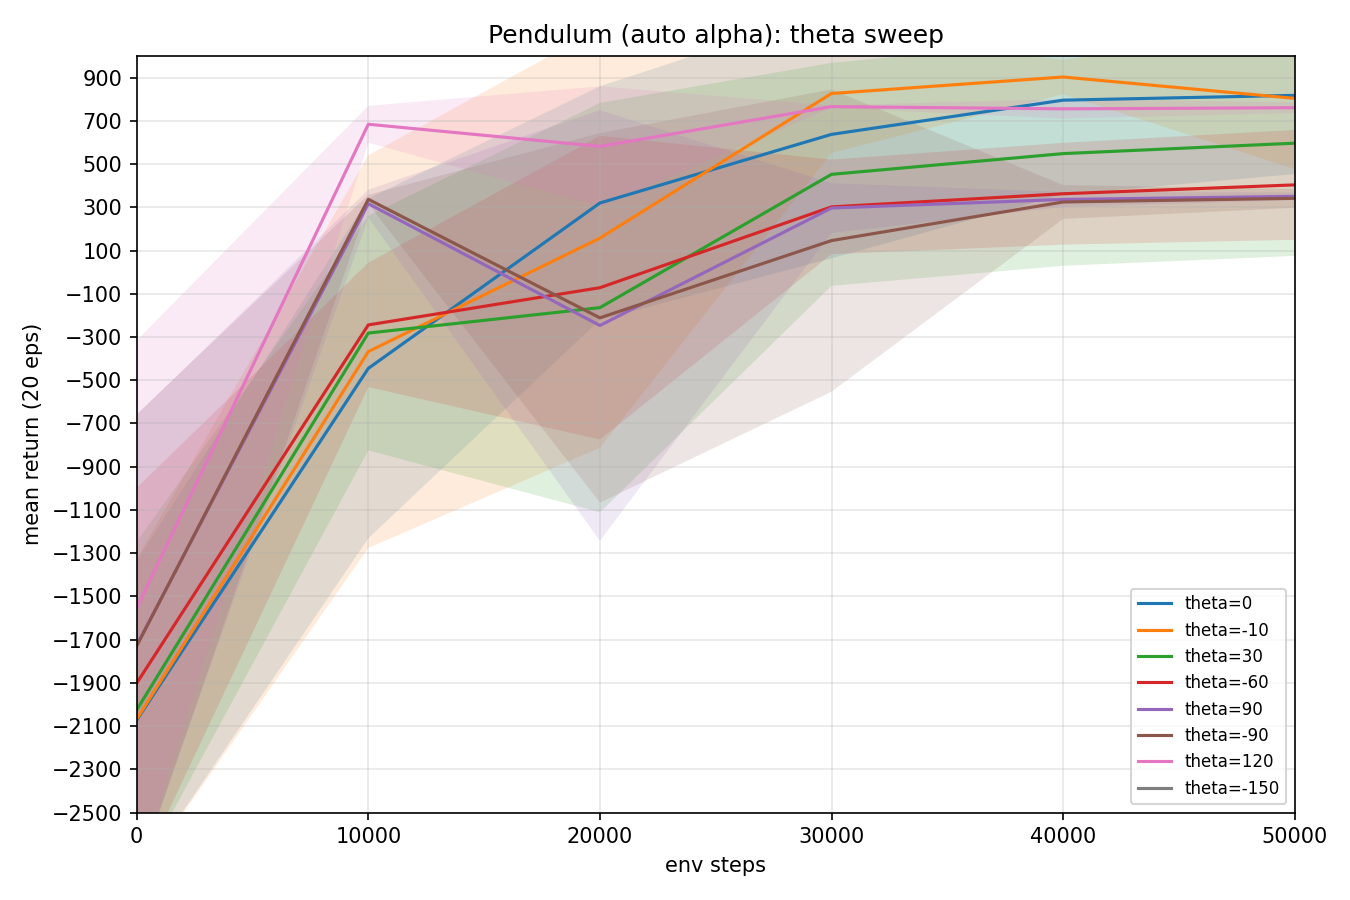
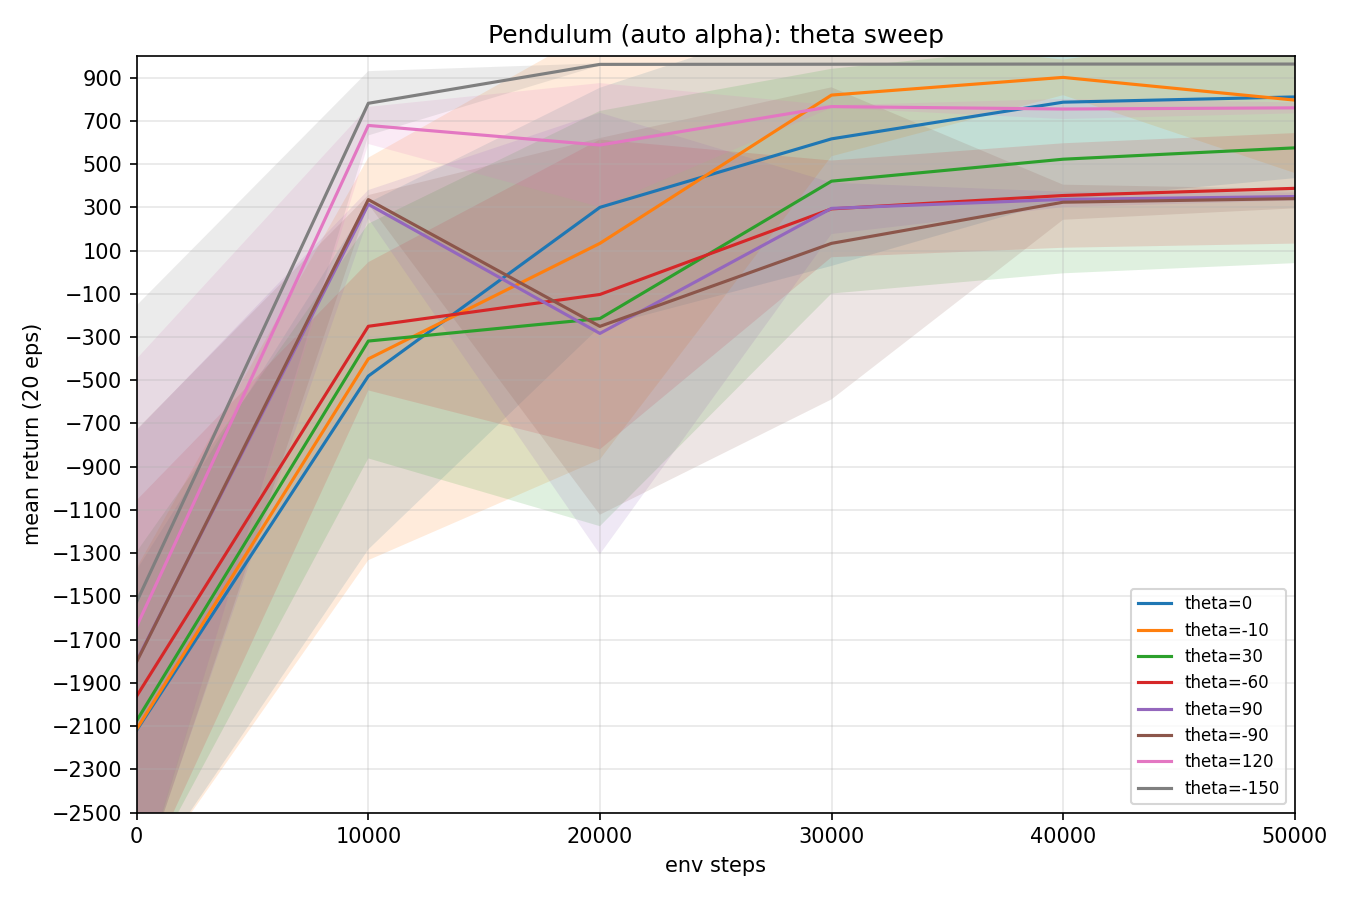
write up 2.0

diff --git a/Assignment 3/write_up.md b/Assignment 3/write_up.md
@@ -27,10 +27,9 @@ Thus, the cosine-based reward is smooth, bounded, and well-suited for learning s
 
 **Learning speed:**
 
-* Targets like (theta = -150, 10, 0) learn the fastest. They show rapid improvement and reach high returns early (≈30K steps).
+* Targets like (theta = -150, 10, 120, 0) learn the fastest. They show rapid improvement and reach high returns early (≈40K steps).
 * **Moderate angles** such as 30 and -60 learn more gradually, with steady but slower improvement.
 * **Harder targets** like 90 and -90 initially struggle (sharp drop around 20K steps), indicating exploration difficulty before recovering.
-* 120 shows relatively stable but slower learning compared to easier angles.
 
 **Final performance (quality of behavior):**
 
@@ -55,3 +54,60 @@ For most larger angles, instead of perfectly holding the target angle, the agent
 - settles at a nearby easier-to-maintain angle (e.g., ~140° for a 120° target)
 
 This happens because for difficult targets, maintaining the exact angle requires continuous precise torque, so the agent prefers stable or quasi-stable behaviors (oscillations or shifted equilibria) that still yield reasonably high reward.
+
+This is reflected in the following visualizations of the system for theta target = -10 and 90 degrees - https://drive.google.com/drive/folders/1ux6DAtJJqaZ-ZaceHcT3RbjIQQfjiK6e?usp=sharing
+
+5. 
+(a) — Manual vs. automated α
+
+We swept manual α values for each θ_target ∈ {−60, 90, 120, −150}. The candidate values were chosen by inspecting the final 5–6 values of the auto-tuned α from the corresponding Q2.1.2 runs (the values α settles to in the last 10–20K env steps), and then refining around them. The final αmnl values for every angle are:
+
+θ_target	αmnl
+−60     	0.01
+90	        0.015
+120	        0.005
+−150	    0.005
+
+Difficulty of tuning: Tuning α manually was moderately difficult: the optimal αmnl differed across target angles so a single value did not transfer. Looking at the auto-α trajectories was a useful prior.
+
+Manual vs. auto comparison: Across θ ∈ {90, 120, −150}, the manual αmnl (dashed lines) achieves comparable or higher final return than auto (solid lines) and noticeably tighter confidence bands — i.e., better final convergence and lower variance across seeds. The trade-off is that manual tuning required a per-θ sweep to find these values, whereas auto-α produced reasonable performance out of the box for all four targets.
+
+The exception is θ = −60: here auto-α slightly outperforms the best αmnl from our sweep. This is consistent with auto-α not stabilising during training for this target — the entropy requirement appears to shift over the course of learning, so any fixed α from the sweep is suboptimal for at least part of training, while the auto adjustment can adapt. This itself illustrates a limitation of manual tuning: when the optimal entropy temperature is non-stationary, a single scalar cannot match the adaptive scheme.
+
+(b)
+
+For scaling = 0.1, both methods reach the same asymptotic return (~+30, equivalent to the +300 from c=1). Manual is slightly tighter; auto shows a small mid-training dip (~step 30k) but recovers. 
+For scaling = 10, manual converges to ≈+3200 (equivalent to +320 unscaled) by step 10k and stays there with moderate variance. Auto α breaks down: returns crash to ≈ −1100 around step 30k before partially recovering by step 50k. The variance band is huge throughout training.
+
+SAC objective J = E[Σ (r − α · log π(a|s))]
+
+Fixed (manual) α: the entropy term is unchanged, but the reward signal grows/shrinks by c. For c = 10, the reward dominates a fixed α = 0.015, so the policy quickly becomes near-deterministic on a good action — same behaviour as the c = 1 case but reached faster. For c = 0.1, the entropy term is now relatively larger, so the policy stays a bit more exploratory but still converges.
+
+Automated α: the dual update on α is driven by the current entropy of the policy relative to the target entropy. The actor and critic gradients, however, scale linearly with c. So with c = 10 the critic Q-values and actor losses are 10× larger, but the α-loss is unchanged in magnitude — the optimiser pushes the policy toward determinism faster than α can compensate, the entropy collapses, learning becomes unstable, α has to ramp up by 10× to catch up, and we get the large mid-training dip and high variance that the plot shows. For c = 0.1 the opposite happens but it's gentler, because the policy is already near-deterministic and a slightly larger relative entropy term doesn't hurt.
+
+Manual α adapts well to both scales because αmnl was already in a robust regime. Auto α adapts well to c = 0.1 but is fragile to c = 10 -  auto-α is not invariant to reward scale, and is one motivation for using a fixed manually-tuned α when the reward magnitude is known and stable.
+
+# BONUS
+
+1. 
+Structure - 
+- Unsupervised pre-training for the first 9 000 env steps: SAC trains on a k-NN state-entropy intrinsic reward (k = 5, rolling buffer of 10 000 states) — no teacher queries.
+- Preference-based training (steps 9 000 → 50 000): every 5 000 env steps a feedback session runs.
+- Reward learning. Each ensemble member is an MLP r_ψ(s, a) (256-hidden × 3-deep, Tanh) trained with the Bradley–Terry preference loss for 50 epochs over the preference buffer at every session.
+- Budget. We used a total feedback budget of 1000 preference queries (≈ 50 sessions × 20 queries). 
+
+Comparison vs. SAC trained on the ground-truth reward. 
+
+θ = −60: Both methods plateau near +200 by step 40 K. PEBBLE is slightly lower at convergence (≈ +170) than SAC(≈ +260) but the bands overlap throughout
+θ = 90: SAC reaches ≈ +320 by step 10 K but exhibits a large mid-training dip. PEBBLE rises more gradually but reaches the same ≈ +320 plateau by step 30 K, with tighter variance.
+θ = 120: SAC reaches ≈ +700 by step 10 K; PEBBLE catches up by step 40–50 K. Final returns are within ≈ 50 of each other (~+760 vs ~+710).
+θ = −150: SAC reaches its asymptote (~+960) by step 10 K; PEBBLE catches up by step 30 K. Final performance is identical.
+θ = 0: PEBBLE converges to same value as SAC (~600) but with more variance and much slower (SAC converges after 30k steps only)
+
+Learning efficiency: SAC is uniformly more sample-efficient: it has access to per-step reward signal from step 0, whereas PEBBLE spends steps 0–9 K on unsupervised pre-training (no task signal at all) and another ~10 K steps building up enough preference labels for the reward model to be accurate. The visible "lag" in the orange curve (typically 10–20 K env steps behind SAC) is the cost of replacing the reward function with 1 000 preference labels.
+
+Final performance: Despite the slower start, PEBBLE matches SAC-GT's final return at every target except a small shortfall at θ = 120 and a within-noise gap at θ = −60. This is the key empirical takeaway: with only 1000 binary preference queries — and no access to the analytical reward function — PEBBLE recovers a reward representation that yields essentially the same converged policy as training directly on the true reward.
+
+Conclusion: PEBBLE is less sample-efficient than ground-truth SAC (≈ 10–20 K-step lag, attributable to unsupervised pre-training and the warm-up of the reward model), but recovers comparable final performance across all target angles. This validates preference-based reward learning as a viable substitute when designing or specifying the reward is hard or impossible — at the cost of a modest amount of additional environment interaction.
+
+2. 
